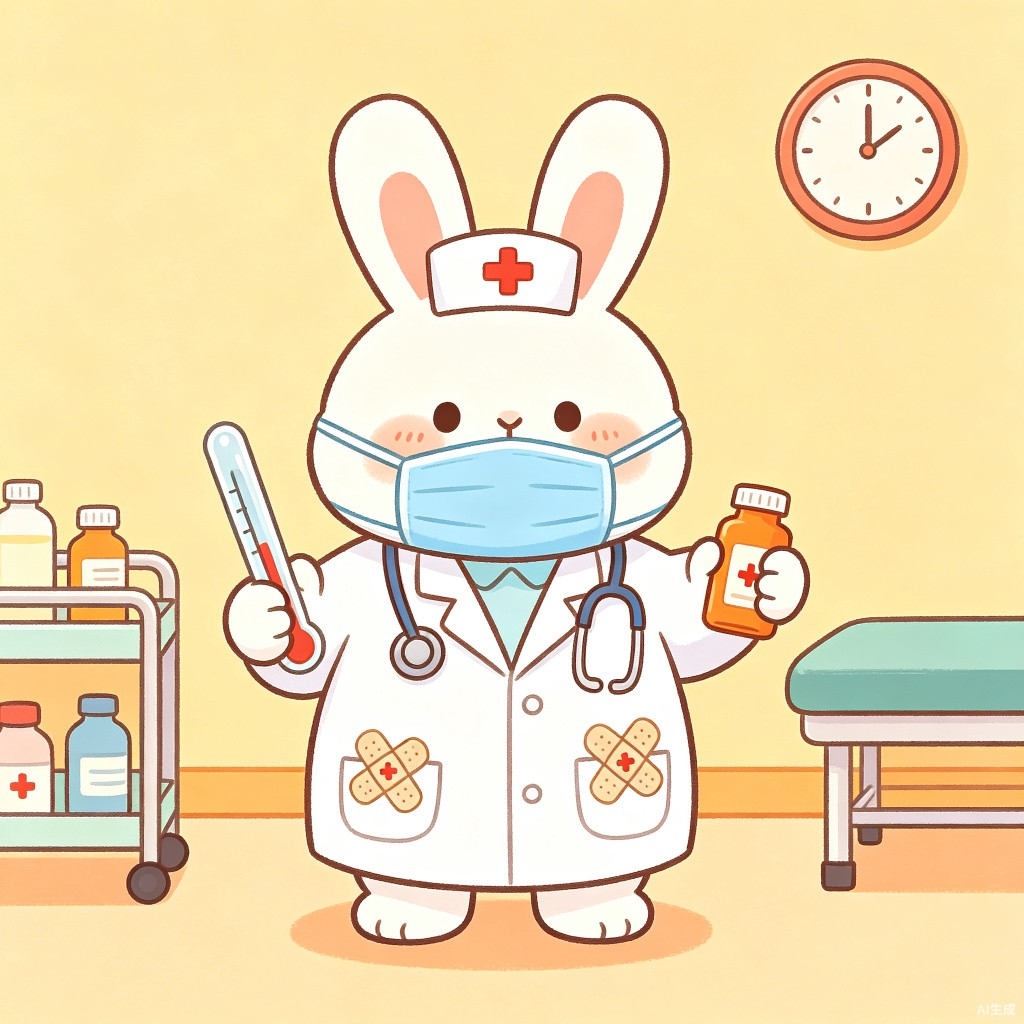
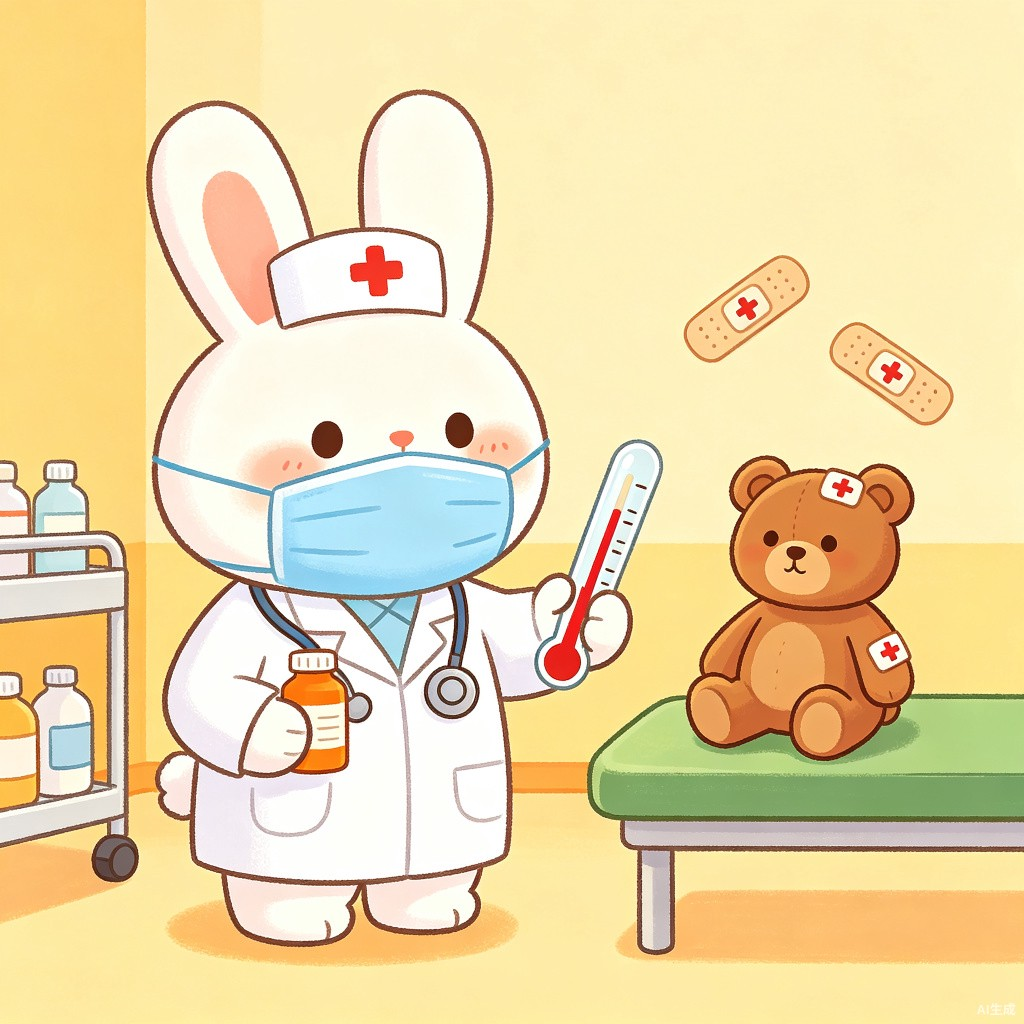
fix: band-aid on teddy bear + instant final image
1. Band-aid now on the teddy bear patient, not the bunny doctor
2. Final image shows immediately (300ms), celebration popup
   appears right after, voice plays in background without blocking UI
3. New doctor-final-v3.jpg with correct band-aid placement

diff --git a/dress-up/index.html b/dress-up/index.html
@@ -997,7 +997,7 @@
         nameEn: 'Little Doctor',
         emoji: '🩺',
         startImg: 'assets/doctor-start.jpg?v=2',
-        finalImg: 'assets/doctor-final-v2.jpg?v=2',
+        finalImg: 'assets/doctor-final-v3.jpg?v=3',
         celebrationEmoji: '🏥',
         celebrationText: "Let's help sick teddy!",
         items: [
@@ -1488,7 +1488,7 @@
       const isLastItem = currentItemIndex >= theme.items.length - 1;
       
       if (isLastItem) {
-        // 最后一个道具：立即显示最终图，不等发音
+        // 最后一个道具：立即显示最终图 + 庆祝动画，不等发音
         currentItemIndex++;
         currentNumEl.textContent = currentItemIndex;
         bunnyImg.src = theme.finalImg;
@@ -1496,12 +1496,15 @@
         void bunnyImg.offsetWidth;
         bunnyImg.classList.add('pop');
         updateItemsListState();
+        isAnswering = false;
         
-        // 发音完成后立即显示庆祝动画
-        playPronunciation(item.letter, item.word, () => {
+        // 300ms 后弹出庆祝（给最终图一个展示时间）
+        setTimeout(() => {
           showCelebration();
-          isAnswering = false;
-        });
+        }, 300);
+        
+        // 语音在后台播放，不阻塞任何 UI
+        playPronunciation(item.letter, item.word);
       } else {
         // 兔子马上穿上新衣服（即时视觉反馈）
         setTimeout(() => {

diff --git a/public/dress-up/index.html b/public/dress-up/index.html
@@ -997,7 +997,7 @@
         nameEn: 'Little Doctor',
         emoji: '🩺',
         startImg: 'assets/doctor-start.jpg?v=2',
-        finalImg: 'assets/doctor-final-v2.jpg?v=2',
+        finalImg: 'assets/doctor-final-v3.jpg?v=3',
         celebrationEmoji: '🏥',
         celebrationText: "Let's help sick teddy!",
         items: [
@@ -1488,7 +1488,7 @@
       const isLastItem = currentItemIndex >= theme.items.length - 1;
       
       if (isLastItem) {
-        // 最后一个道具：立即显示最终图，不等发音
+        // 最后一个道具：立即显示最终图 + 庆祝动画，不等发音
         currentItemIndex++;
         currentNumEl.textContent = currentItemIndex;
         bunnyImg.src = theme.finalImg;
@@ -1496,12 +1496,15 @@
         void bunnyImg.offsetWidth;
         bunnyImg.classList.add('pop');
         updateItemsListState();
+        isAnswering = false;
         
-        // 发音完成后立即显示庆祝动画
-        playPronunciation(item.letter, item.word, () => {
+        // 300ms 后弹出庆祝（给最终图一个展示时间）
+        setTimeout(() => {
           showCelebration();
-          isAnswering = false;
-        });
+        }, 300);
+        
+        // 语音在后台播放，不阻塞任何 UI
+        playPronunciation(item.letter, item.word);
       } else {
         // 兔子马上穿上新衣服（即时视觉反馈）
         setTimeout(() => {